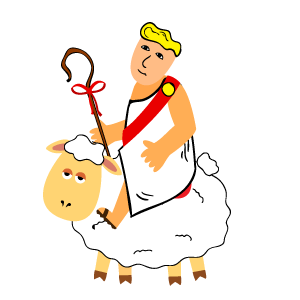
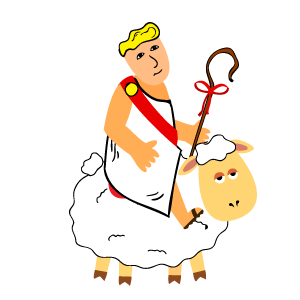
fixes

diff --git a/app/Controllers/SceneController.js b/app/Controllers/SceneController.js
@@ -84,28 +84,28 @@
     };
 
     SceneController.prototype._sitting = function (gamepadData) {
-        var actionAllowed = _(gamepadData)
+        _(gamepadData)
             .filter('x')
-            .map(function (gamepadDataPlayer, i) {
+            .map(function (gamepadDataPlayer) {
+                var i = gamepadData.indexOf(gamepadDataPlayer);
                 return this.scene.players[i];
             }.bind(this))
             .filter('inAttack', false)
-            .filter('wasted', false);
-        actionAllowed
-            .filter('sheep')
-            .invoke('standUp')
-            .value();
-        actionAllowed
-            .filter('sheep', null)
-            .forEach(function (player) {
-                var sheepNear = _(this.scene.sheep)
-                    .filter('busy', false)
-                    .filter('isLeaving', false)
-                    .find(function(sheep) {
-                        return player.isInSittingAreaWith(sheep);
-                    });
-                if (sheepNear){
-                    player.sit(sheepNear);
+            .filter('wasted', false)
+            .filter('inSittingProccess', false)
+            .forEach(function(player){
+                if (player.sheep){
+                    player.standUp();
+                } else {
+                    var sheepNear = _(this.scene.sheep)
+                        .filter('busy', false)
+                        .filter('isLeaving', false)
+                        .find(function(sheep) {
+                            return player.isInSittingAreaWith(sheep);
+                        });
+                    if (sheepNear){
+                        player.sit(sheepNear);
+                    }
                 }
             }.bind(this))
             .value();

diff --git a/app/GameObjects/Player.js b/app/GameObjects/Player.js
@@ -4,7 +4,7 @@
     var ATTACK_RADIUS = PLAYER_RADIUS * 1.5;
 
     var doc = document;
-    var SITTING_RADIUS = PLAYER_RADIUS * 1.5;
+    var SITTING_RADIUS = PLAYER_RADIUS * 2;
 
     function createPlayerElement() {
         var playerContainer = doc.createElement('figure'),
@@ -23,6 +23,7 @@
         this.wasted = false;
         this.direction = playerDto.direction;
         this.sheep = null;
+        this.inSittingProccess = false;
         this.element = createPlayerElement();
     }
 
@@ -34,7 +35,14 @@
     Player.prototype.sit = function (sheep) {
         this.sheep = sheep;
         sheep.busy = true;
-        sheep.position = this.position;
+        sheep.position = {
+            x: -50000,
+            y: -50000
+        };
+        this.inSittingProccess = true;
+        setTimeout(function () {
+            this.inSittingProccess = false;
+        }.bind(this), 500);
     };
 
     Player.prototype.isCollisionWith = function (player) {
@@ -44,6 +52,10 @@
         if (!this.sheep){
             return;
         }
+        this.inSittingProccess = true;
+        setTimeout(function () {
+            this.inSittingProccess = false;
+        }.bind(this), 500);
         this.sheep.busy = false;
         if (direction === undefined) {
             direction = this.direction;

diff --git a/app/Styles/sheep.css b/app/Styles/sheep.css
@@ -1,15 +1,15 @@
 .sheep {
     position: absolute;
     z-index: 2;
-    height: 15vh;
-    width: 15vh;
+    height: 20vh;
+    width: 20vh;
     margin: -7.5vh;
     background-size: contain;
     background-repeat: no-repeat;
     background-position: center;
 }
 
-.sheep.to-right {
+.sheep.to-left {
     transform: rotateY(-180deg);
 }
 
